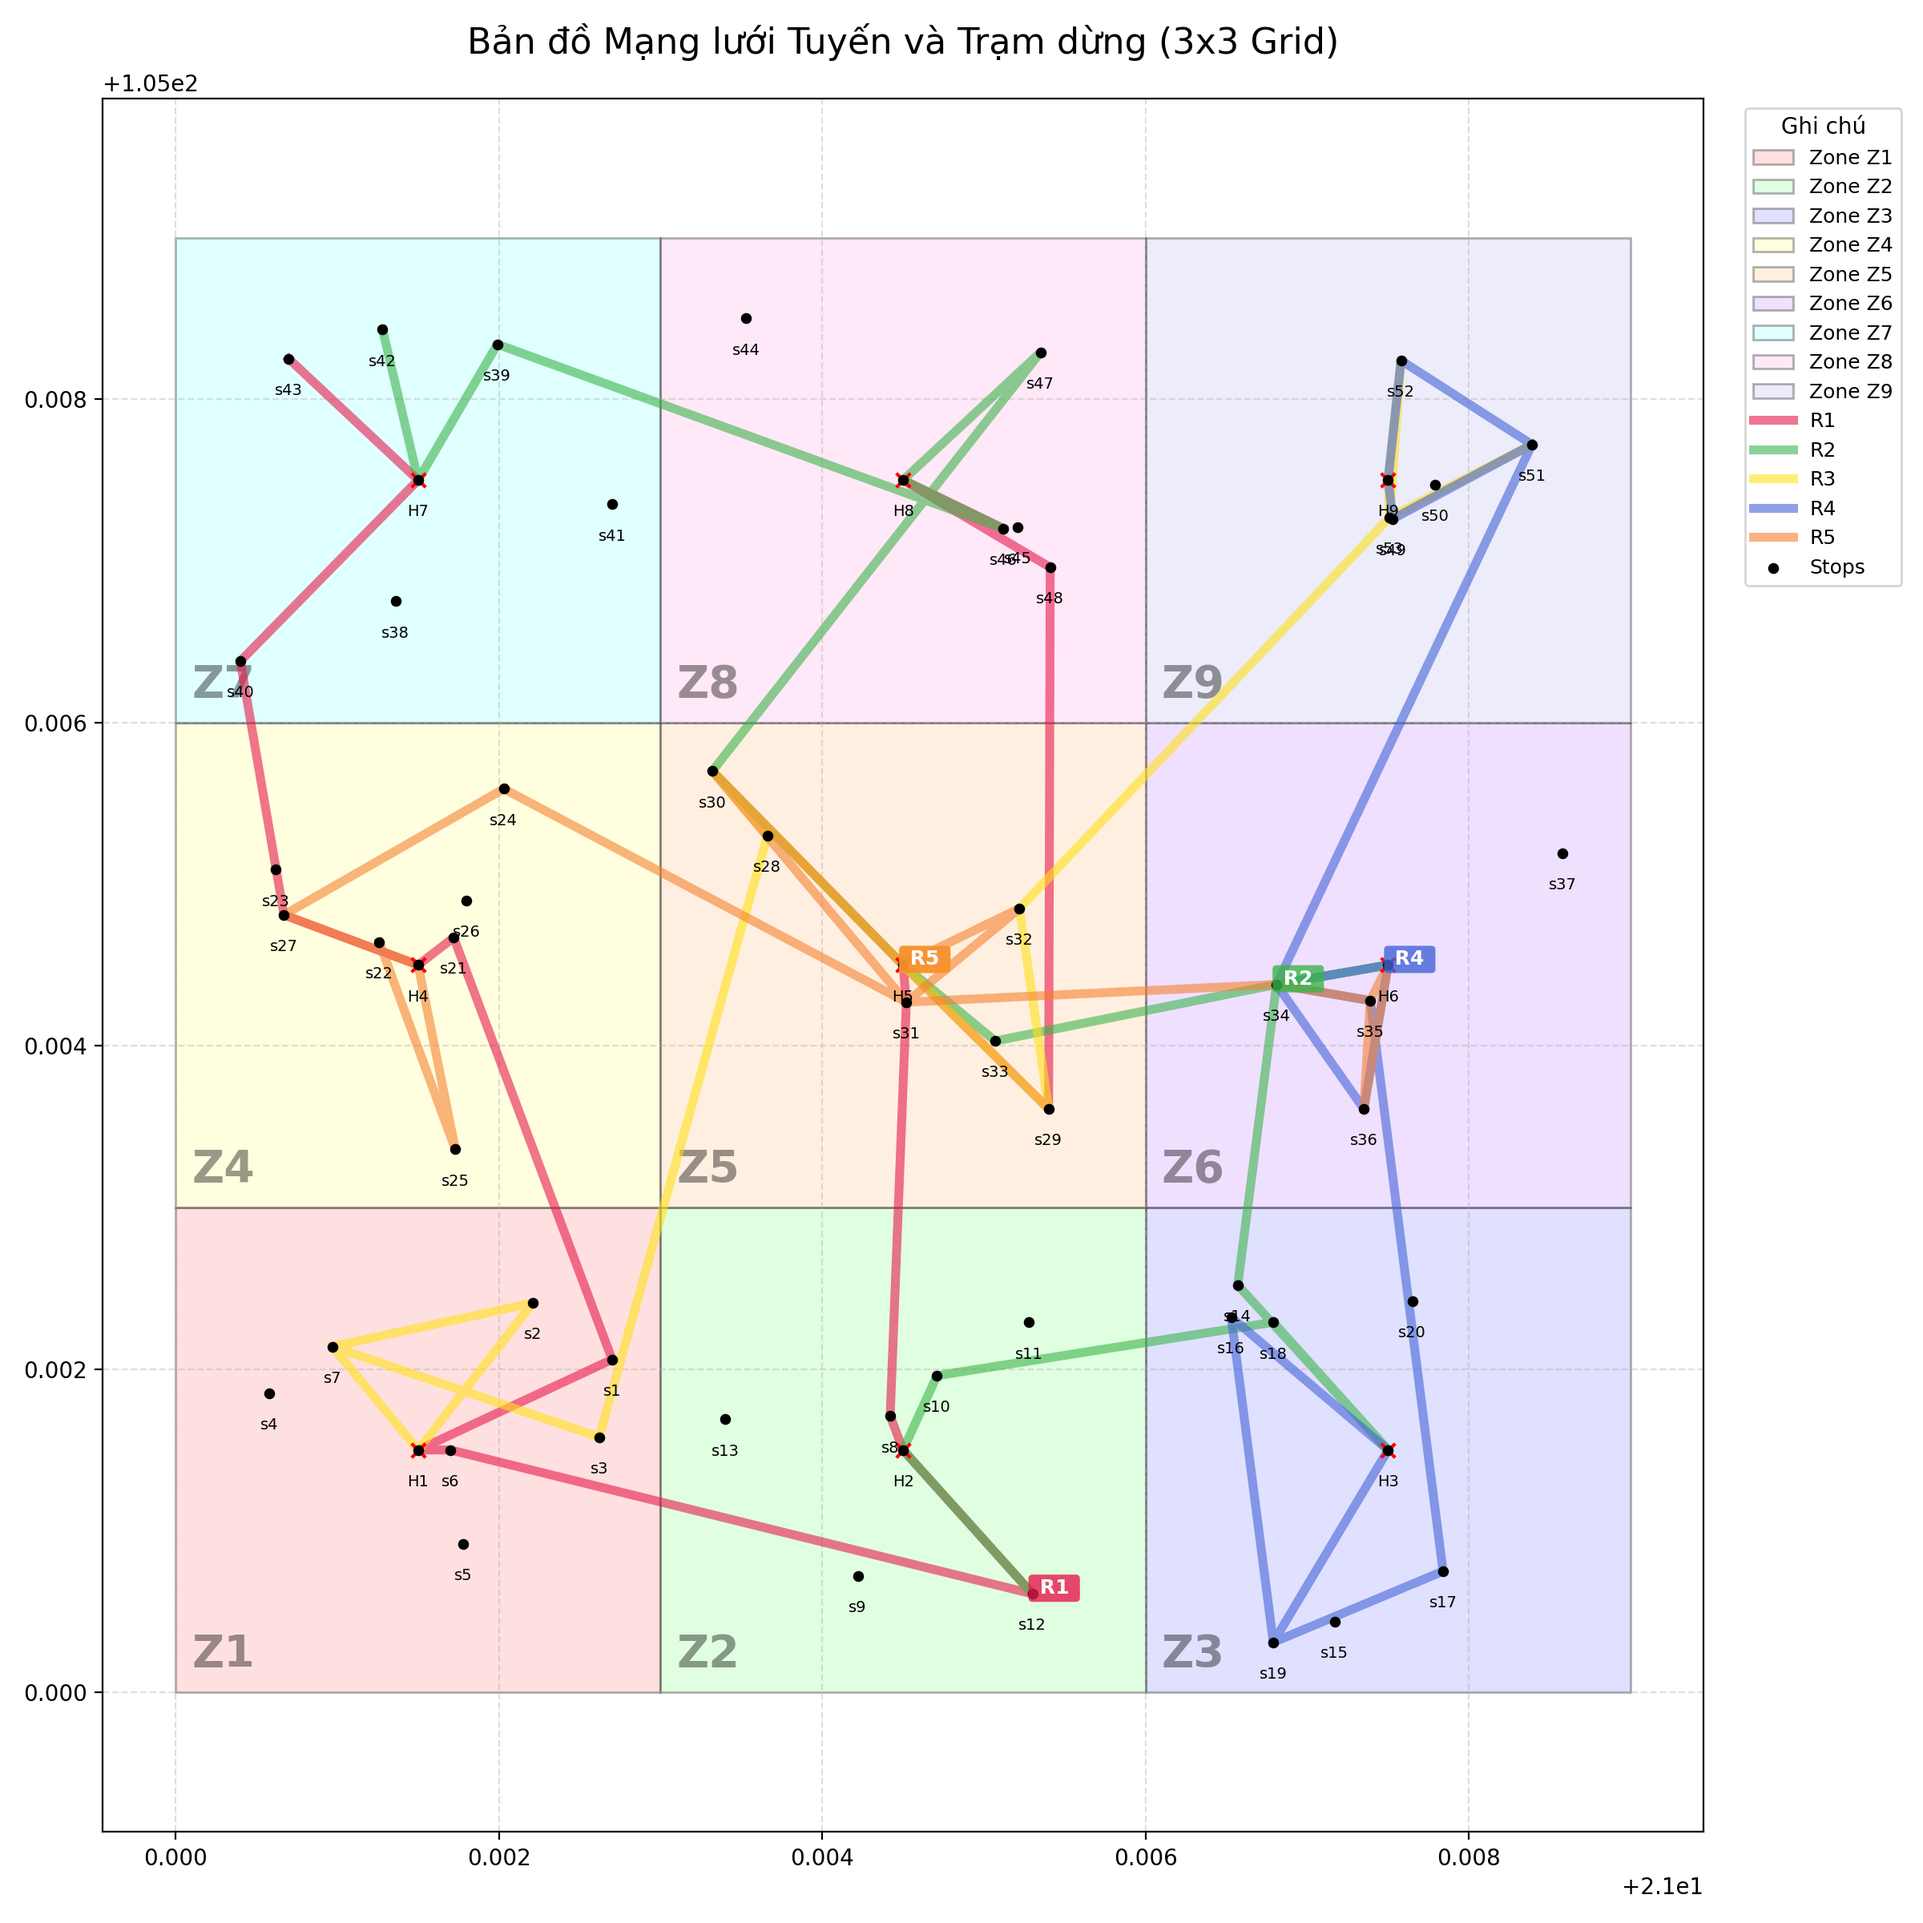
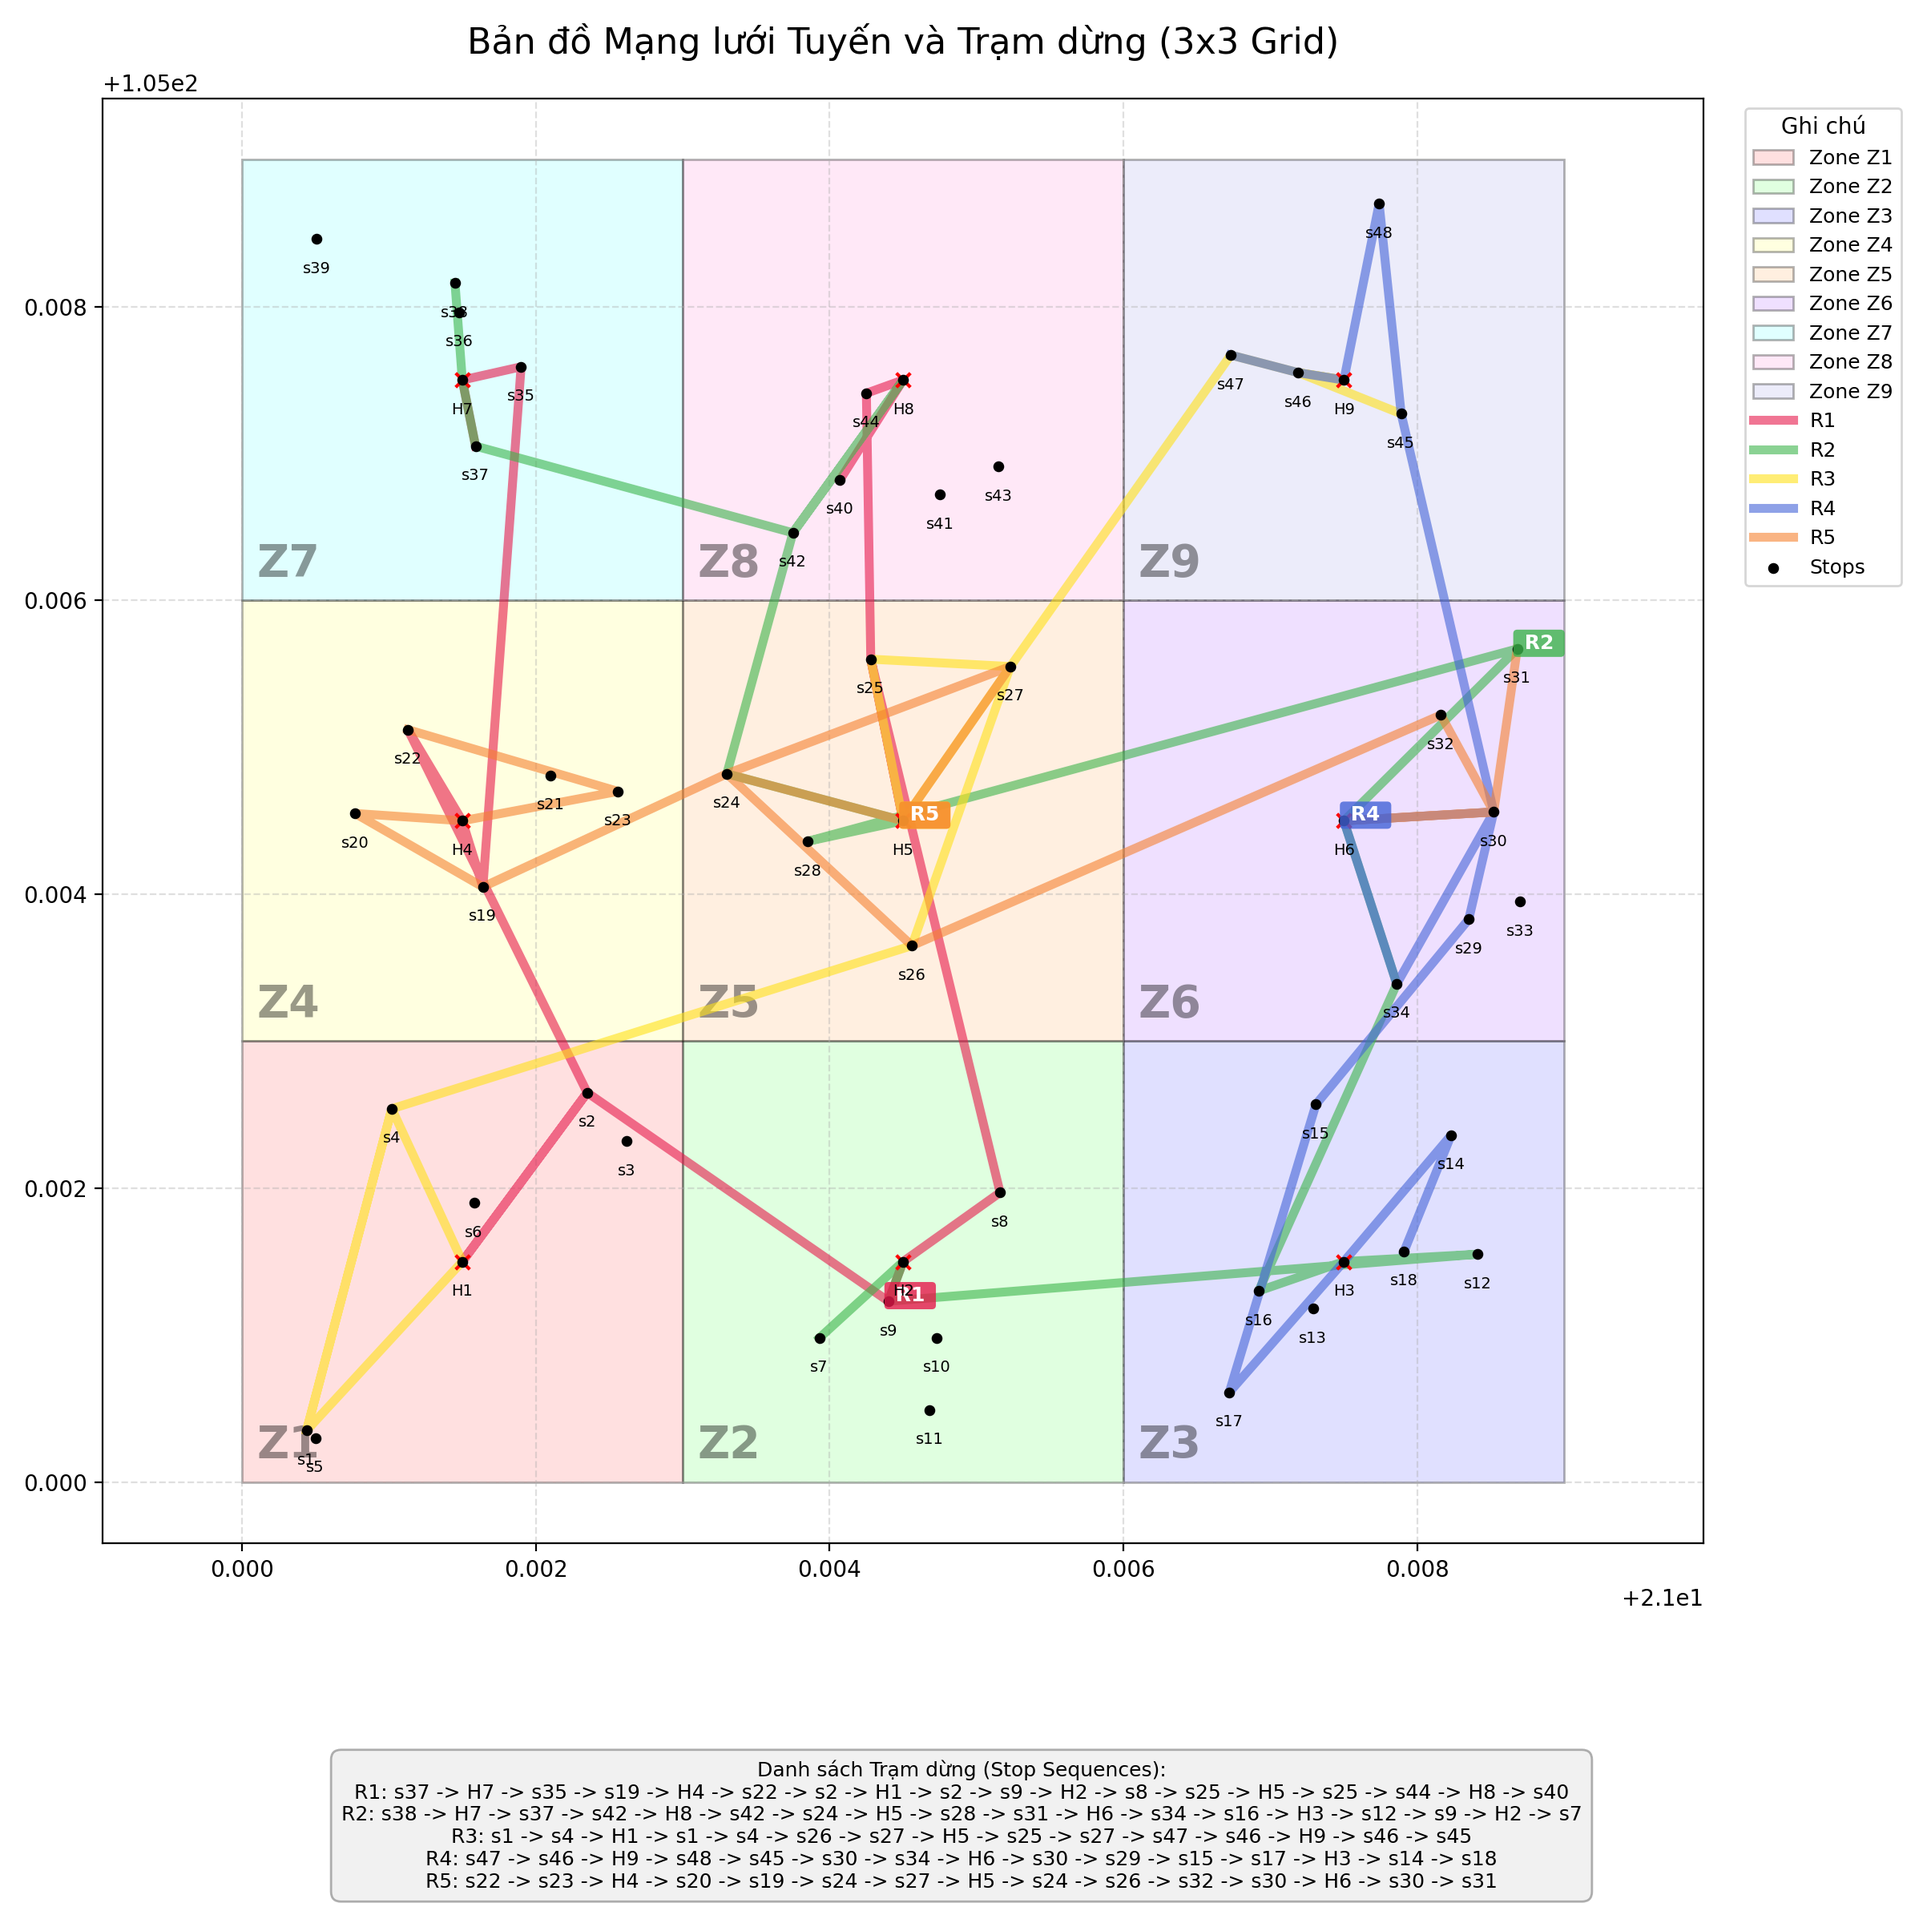
Done kpi total demand od trip/route

diff --git a/src/domain/service/trip_kpi_caculator/total_potential_demand_in_trip.py b/src/domain/service/trip_kpi_caculator/total_potential_demand_in_trip.py
@@ -5,7 +5,7 @@ from src.domain.model.od_matrix import ODMatrix
 from src.domain.model.od_pair import ODPair
 from src.domain.port import IGeometryCalculator
 from src.domain.service.routing import AbstractRouting
-from src.domain.service.spatial import find_intersecting_trip_between_candidatetrip_and_trip
+from src.domain.model.trip import CandidateTrip, Leg
 from src.domain.service.trip_kpi_caculator.trip_kpi_base import TripKPICalculator
 
 
@@ -34,8 +34,8 @@ def find_trip_served_od_pair_in_transit_network_makeby_routes_in_trip(
             route_ids_in_trip.add(route.id())
             routes_objs.append(route)
 
-    sub_transitnetwork = TransitNetwork(transit_network.stops(), routes_objs)
-
+    #sub_transitnetwork = TransitNetwork(transit_network.stops(), routes_objs)
+    sub_transitnetwork = transit_network
     # --- Bước 2: Tìm cách di chuyển hợp lệ candidate_trips_od từ O đến D trên các route có trong trip ---
     candidate_trips_od = routing_engine.find_candidate_trips_for_od_pair(
         od_pair, od_matrix, sub_transitnetwork, geometry_calculator
@@ -43,14 +43,42 @@ def find_trip_served_od_pair_in_transit_network_makeby_routes_in_trip(
     if not candidate_trips_od:
         return []
 
-    # --- Bước 3: Xét sự giao nhau để sinh ra các trip_subset ---
+    # --- Bước 3: Xét sự giao nhau để sinh ra các phần nhỏ (partial overlaps) ---
     served_trip_subsets = []
+    
     for candidate_trip in candidate_trips_od:
-        intersecting_trips = find_intersecting_trip_between_candidatetrip_and_trip(
-            candidate_trip, trip, transit_network
-        )
-        if intersecting_trips:
-            served_trip_subsets.extend(intersecting_trips)
+        overlapped_legs = []
+        for c_leg in candidate_trip.candidate_legs:
+            for t_leg in trip.legs:
+                if c_leg.route_id == t_leg.route_id:
+                    route = transit_network.get_route_by_id(t_leg.route_id)
+                    if not route: continue
+                    seq = route.stops_seq()
+                    
+                    try:
+                        t_start = seq.index(t_leg.board_stop_id)
+                        t_end = seq.index(t_leg.alight_stop_id)
+                    except ValueError:
+                        continue
+                        
+                    if t_start > t_end: t_start, t_end = t_end, t_start
+                    
+                    c_boards = [seq.index(s) for s in c_leg.possible_boarding_stop_ids if s in seq]
+                    c_alights = [seq.index(s) for s in c_leg.possible_alighting_stop_ids if s in seq]
+                    if not c_boards or not c_alights: 
+                        continue
+                        
+                    c_start = min(c_boards)
+                    c_end = max(c_alights)
+                    
+                    i_start = max(t_start, c_start)
+                    i_end = min(t_end, c_end)
+                    
+                    if i_start <= i_end:
+                        overlapped_legs.append(Leg(route.id(), seq[i_start], seq[i_end]))
+                        
+        if overlapped_legs:
+            served_trip_subsets.append(Trip(legs=overlapped_legs))
 
     return served_trip_subsets
 

diff --git a/src/adapters/repository/visualize_zone_and_transitnetwork.py b/src/adapters/repository/visualize_zone_and_transitnetwork.py
@@ -76,6 +76,16 @@ class VisualizeZoneAndTransitNetwork:
         ax.legend(by_label.values(), by_label.keys(), 
                   title="Ghi chú", bbox_to_anchor=(1.02, 1), loc='upper left', fontsize=9)
 
+        # 4. Thêm thông tin Stop Sequences ở phía dưới hình
+        route_info_lines = []
+        for route in transit_network.routes():
+            seq_str = " -> ".join(route.stops_seq())
+            route_info_lines.append(f"{route.id()}: {seq_str}")
+        
+        info_text = "Danh sách Trạm dừng (Stop Sequences):\n" + "\n".join(route_info_lines)
+        plt.figtext(0.5, 0.02, info_text, wrap=True, horizontalalignment='center', fontsize=9, 
+                    bbox=dict(facecolor='lightgrey', alpha=0.3, boxstyle='round,pad=0.5'))
+
         ax.set_aspect('equal', adjustable='datalim')
         if title:
             ax.set_title(title, fontsize=16, pad=20)
@@ -83,7 +93,9 @@ class VisualizeZoneAndTransitNetwork:
             ax.set_title("Bản đồ Tuyến xe & Điểm dừng (Routes & Stops)", fontsize=16, pad=20)
         
         plt.grid(True, linestyle='--', alpha=0.4)
-        plt.tight_layout()
+        
+        # Chừa khoảng trống phía dưới cho text (rect=[left, bottom, right, top])
+        plt.tight_layout(rect=[0, 0.15, 1, 1])
         
         if save_path:
             plt.savefig(save_path, dpi=200)
@@ -163,7 +175,7 @@ class VisualizeZoneAndTransitNetwork:
             
             # Hiệu chỉnh nhẹ theo rad
             # Hiệu chỉnh offset về đúng tỉ lệ Lat/Lon (100,000m ~ 1 degree)
-            offset = 40 / 100000.0 
+            offset = 100 / 100000.0 
 
             dx = d_c.lat() - o_c.lat()
             dy = d_c.lon() - o_c.lon()

diff --git a/src/adapters/repository/fake_repo_grid_3x3.py b/src/adapters/repository/fake_repo_grid_3x3.py
@@ -138,6 +138,14 @@ class FakeRepoGrid3x3(AbstractRepository):
         self.trips = [
             # Trip 1: Toàn tuyến R5
             Trip([Leg("R5", r5_stops[0].id(), r5_stops[-1].id())]),
+
+            Trip([Leg("R4", r4_stops[0].id(), r4_stops[-1].id())]),
+
+            Trip([Leg("R3", r3_stops[0].id(), r3_stops[-1].id())]),
+
+            Trip([Leg("R2", r2_stops[0].id(), r2_stops[-1].id())]),
+
+            Trip([Leg("R1", r1_stops[0].id(), r1_stops[-1].id())]),
             
             # Trip 2: Một phần R1 (từ Z7 đến Z2)
             Trip([Leg("R1", r1_stops[0].id(), hubs["Z2"].id())]),

diff --git a/src/adapters/repository/generate_3x3_plots.py b/src/adapters/repository/generate_3x3_plots.py
@@ -3,7 +3,8 @@ from src.adapters.repository.fake_repo_grid_3x3 import FakeRepoGrid3x3
 from src.adapters.repository.visualize_zone_and_transitnetwork import VisualizeZoneAndTransitNetwork
 
 def main():
-    repo = FakeRepoGrid3x3(seed=68)
+    repo = FakeRepoGrid3x3(seed=36)
+    #repo = FakeRepoGrid3x3(seed=42)
     
     stops, routes, zones, od_pairs, trips = repo.get()
     od_matrix = repo.get_od_matrix()

diff --git a/src/entrypoints/api.py b/src/entrypoints/api.py
@@ -106,7 +106,7 @@ def calculate_kpi_all_routes():
     """
     Tính toán tất cả các chỉ số KPI cho mọi Trip (Chuyến xe) có trong hệ thống.
     """
-    repo = FakeRepoGrid3x3()
+    repo = FakeRepoGrid3x3(seed=36)
     uow = DummyUnitOfWork(repo)
     routing_engine = CombinedRoutingEngine()
     geo_calc = ShapelyGeometryCalculator()
